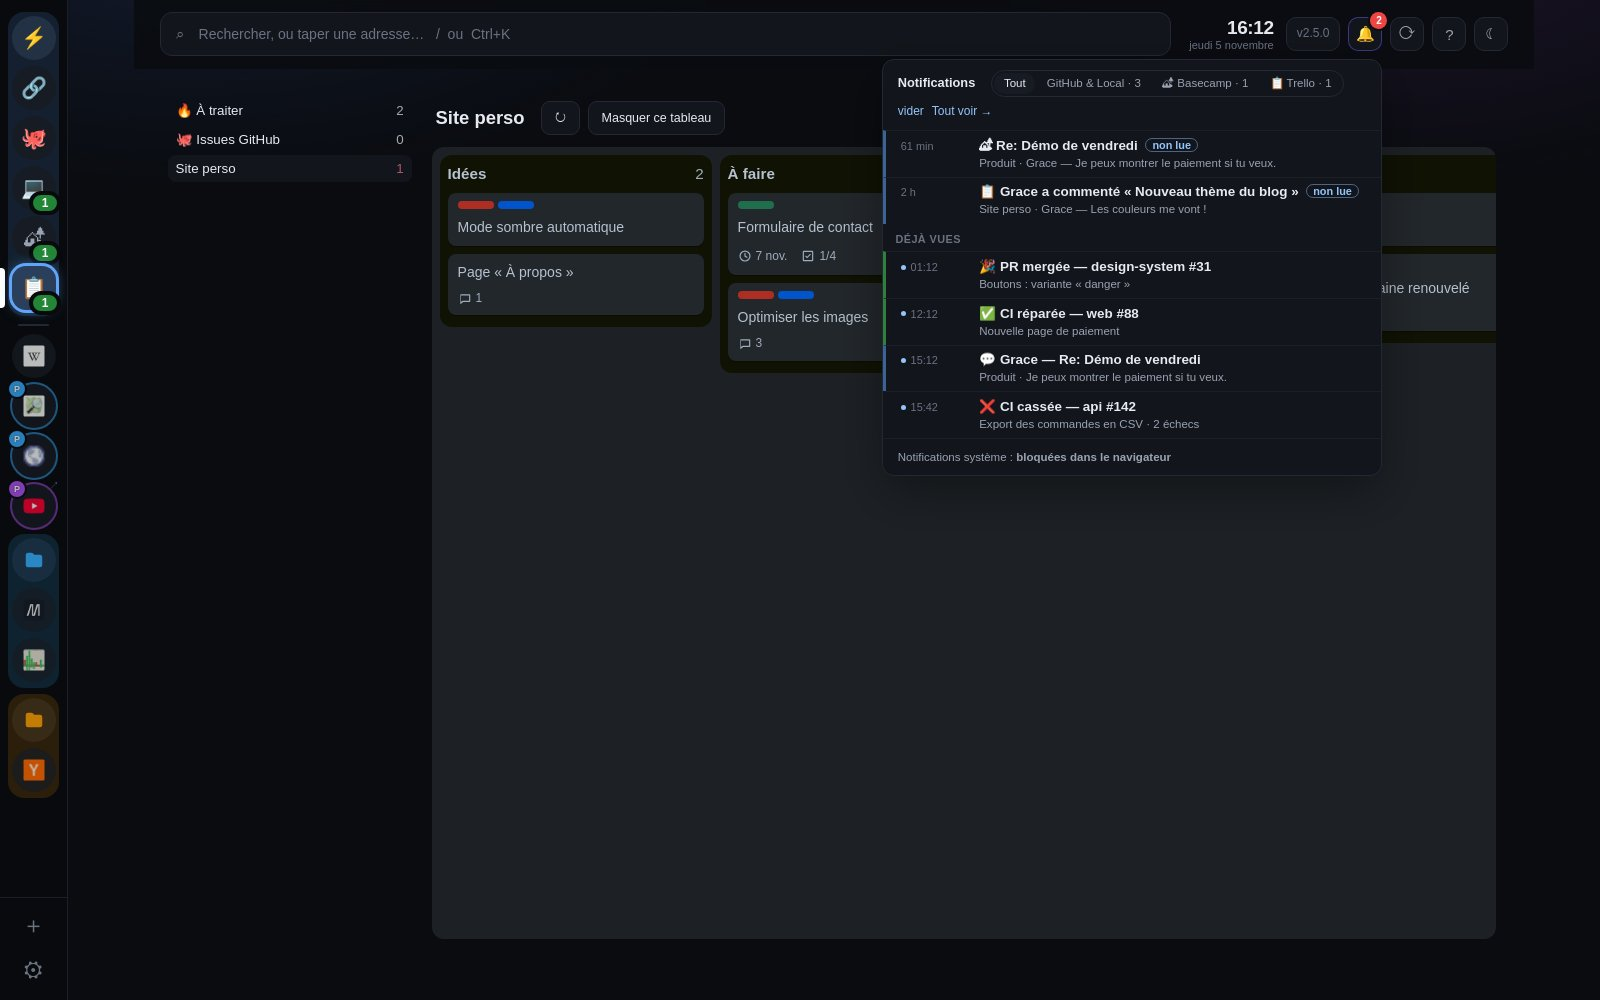
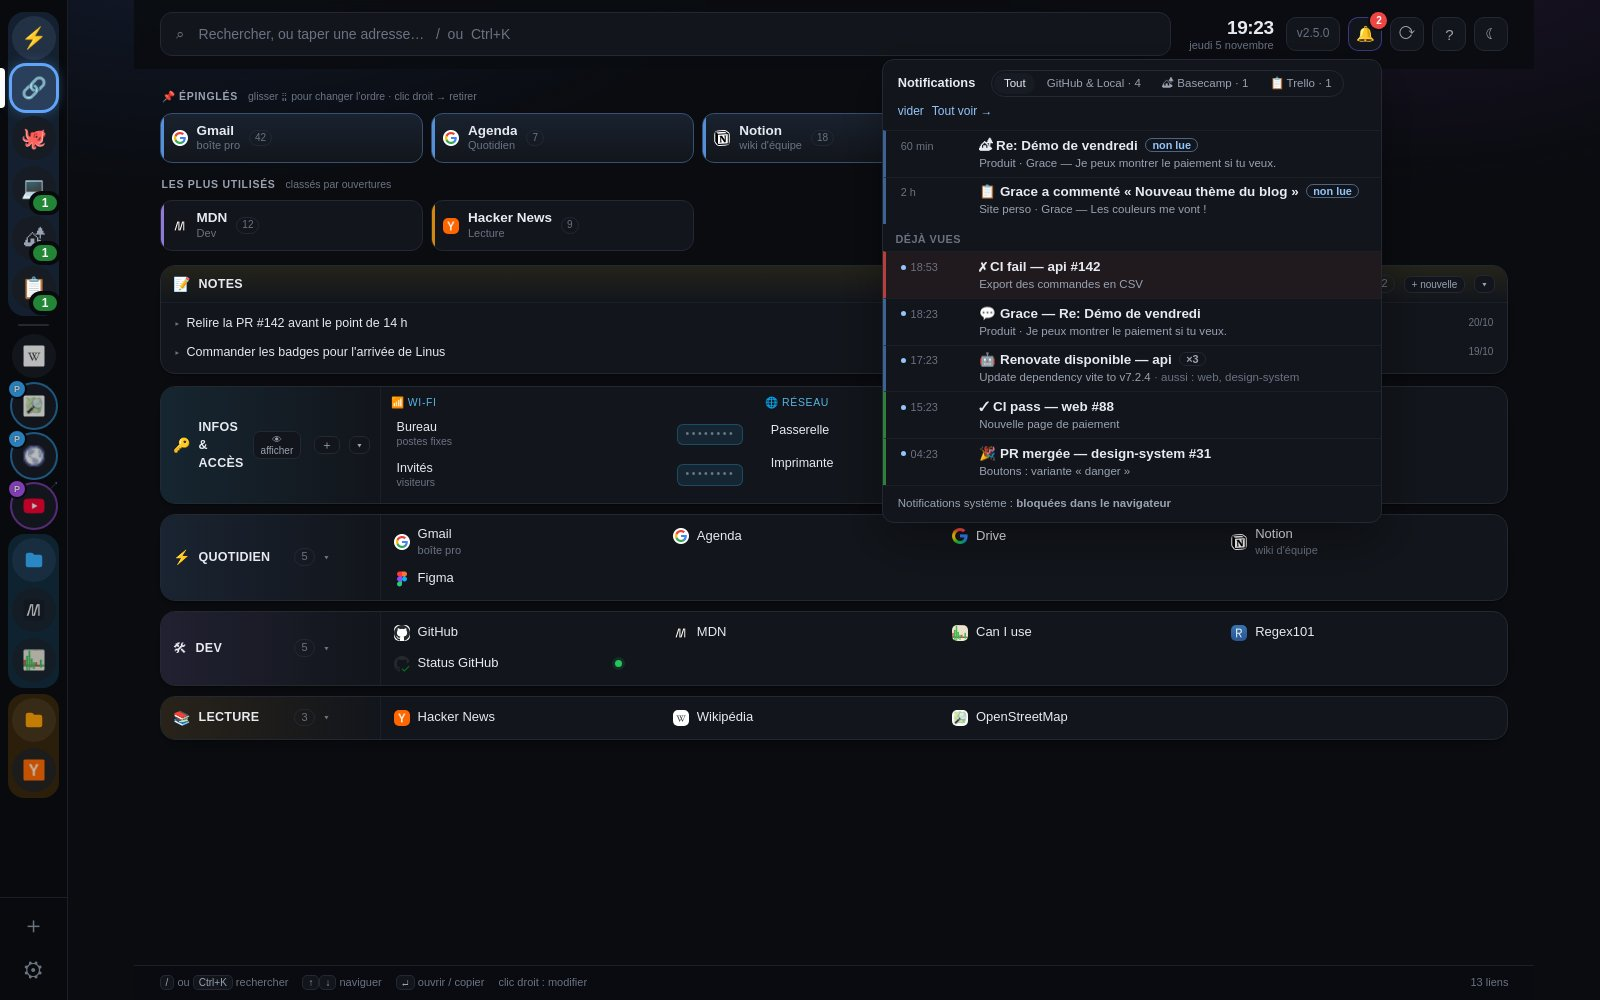
Doc 2.5.0 : Guide, confidentialité, architecture, captures
Le paragraphe Docker du Guide était coupé par celui des extensions, et
PRIVACY ne disait pas ce que voit une extension. Captures github (dates
encore en UTC) et cloche refaites ; la démo de la cloche utilise les vrais
types d'événements, un groupe Renovate et l'ordre du serveur.

diff --git a/GUIDE.md b/GUIDE.md
@@ -61,12 +61,12 @@ même sans aucun site : son **＋** ajoute le premier.
   dans la barre d'onglets du haut (un clic sur ⚡, puis l'onglet).
 - **Containers Docker** (développeurs) : *Réglages → Mes sites → Docker*, proposé quand Docker tourne sur la machine, ajoute un dossier 🐳 dans la barre, avec une ligne par projet Compose
   ou container, reconnaissable à ses deux lettres et sa couleur. Un clic ouvre son premier port, un clic droit ses autres ports.
+  Le dossier se glisse où tu veux. Ceux qui sont éteints restent visibles en plus fade, sans clic. Tu choisis lesquels ; homedash lit la liste et ne change rien.
 - **Extensions de navigateur** (appli de bureau) : *Réglages → Mes sites → Extensions* → *Ajouter un dossier*, celui
   d'une extension non empaquetée (avec `manifest.json`). Elle tourne dans tous tes sites, tous comptes compris, sur
   cette machine seulement ; *↻ Recharger les sites ouverts* pour l'appliquer tout de suite. Ce qu'elle fait dans la
   page marche ; son icône, sa fenêtre (popup), son clic droit et `storage.sync` non (elle doit se rabattre sur
   `storage.local`). N'ajoute que des extensions que tu connais : elles voient tout ce que tes sites affichent.
-  Le dossier se glisse où tu veux. Ceux qui sont éteints restent visibles en plus fade, sans clic. Tu choisis lesquels ; homedash lit la liste et ne change rien.
 - **Tout le reste** : clic droit sur l'icône du site (copier le lien, dossier, compte, notifications, son, veille,
   modifier, supprimer).
 - **Partager un onglet** : le bouton partager en haut (ou clic droit → *Copier le lien*) copie l'adresse
@@ -149,12 +149,13 @@ homedash dans sa propre fenêtre, sur Mac et Windows. Elle n'ouvre aucun port ; 
 | `⇧⌘R` | `Ctrl+Maj+R` | Recharger tout homedash (tous les sites se rechargent) |
 | `⌘[` `⌘]` | `Ctrl+[` `Ctrl+]` | Page précédente / suivante (aussi les boutons de la souris) |
 | `Ctrl+Tab` | `Ctrl+Tab` | Revenir au site d'avant. `Ctrl` gardé appuyé : tes sites s'affichent en tuiles. `Tab` ou `Maj+Tab` pour choisir, relâcher `Ctrl` ou cliquer pour ouvrir, `1` à `9` pour ouvrir directement, `Échap` pour rester (⌘Tab et Alt+Tab restent ceux du système) |
+| `⌘⇧F` | `Ctrl+Maj+F` | Mode focus : le site affiché prend toute la fenêtre, même quand tu tapes dans le site ; les barres reviennent au bord. Encore une fois pour en sortir |
 | `⌘,` | `Ctrl+,` | Réglages |
-| `⌘Q` | Clic droit sur l'icône près de l'horloge → *Quitter* | Quitter. Fermer la fenêtre la cache seulement : pastilles et cloche continuent |
+| `⌘Q` | Clic droit sur l'icône près de l'horloge → *Quitter* | Quitter. Fermer la fenêtre la cache seulement : compteurs et cloche continuent |
 
 #### Bon à savoir
 
-- **Mémoire** : au démarrage, seuls les mails et messageries sont chargés, l'un après l'autre (leurs pastilles arrivent dans les premières secondes) ; les autres au premier clic.
+- **Mémoire** : au démarrage, seuls les mails et messageries sont chargés, l'un après l'autre (leurs compteurs arrivent dans les premières secondes) ; les autres au premier clic.
   *Réglages → Mes sites* affiche ce que consomme chaque site : 💤 *Libérer* le décharge tout de suite, jusqu'au
   prochain clic. Clic droit → *Mettre en veille si inutilisé* libère un onglet après 5 min sans y aller.
 - **Son** : 🔊 sur l'icône d'un onglet qui joue du son ; un clic le coupe.
@@ -349,7 +350,7 @@ garde tes modifications en brouillon, retrouvées au retour.
 | 💻 Local | Les dossiers où chercher tes clones |
 | 🏕 Basecamp | La connexion, les repos où créer les issues, les stats en arrière-plan |
 | 📋 Trello | La clé d'API et le jeton, les repos où créer les issues |
-| 🗂 Mes sites | Tes sites (une ligne chacun, ▾ pour tous ses réglages), dossiers, comptes ; repliés : où s'ouvrent les liens, veille, Docker |
+| 🗂 Mes sites | Tes sites (une ligne chacun, ▾ pour tous ses réglages), dossiers, comptes ; repliés : où s'ouvrent les liens, onglets temporaires gardés, veille, Docker, extensions (appli) |
 | 🧭 Barres et onglets | Barre de gauche ou onglets en haut, disposition, style et taille des onglets, masquage automatique, place de Raccourcis/GitHub/Local (⚡) |
 | 🎛 Affichage | Ce qui s'affiche (horloge, tuiles…), largeur de la page ; repliés : densité de Raccourcis, colonnes GitHub / Local, tuiles, test des voyants |
 | 🔔 Notifications | Ce qui compte dans la cloche (par type : compter, discret, masqué), notifications du bureau, compteur sur l'icône de l'appli |
@@ -389,7 +390,7 @@ homedash sauvegarde tes liens, réglages et notes tout seul : chaque jour, et av
 | http://localhost:7777 ne montre rien dans le navigateur | Normal : coche *Réglages → Fonctionnalités → Accès depuis le navigateur*, l'appli ouverte |
 | Accès navigateur : « le port 7777 est déjà pris » | Un autre programme l'utilise (un ancien homedash ?) : ferme-le |
 | « Tes réglages ne se lisent plus » | Le fichier a été abîmé (souvent une modification à la main) : *Revenir à la dernière sauvegarde* |
-| Pas d'onglet GitHub | Aucun jeton : *Réglages → GitHub → Connexion*, le pas-à-pas « Comment créer un jeton » y est ouvert |
+| Pas d'onglet GitHub | Aucun jeton : *Réglages → GitHub → Compte*, le pas-à-pas « Comment créer un jeton » y est ouvert |
 | Un repo n'est pas proposé | Repo d'un collègue où tu es collaborateur : onglet *Partagés avec toi*. Sinon le jeton n'y a pas accès : ajoute-le dans *Repository access* du jeton, sur GitHub |
 | Onglet Local vide | Ajoute un dossier dans *Réglages → Local* (dossier personnel, ou 💽 ailleurs sur le disque) |
 | Un compteur ne bouge pas | L'onglet est peut-être en veille : clique dessus pour le recharger |

diff --git a/ARCHITECTURE.md b/ARCHITECTURE.md
@@ -41,13 +41,17 @@ src/
   lib/                    appels API et polling (ghboard, local, events, admin…), markdown (aide),
                           tabCount (compteurs de Mes sites), railOrder (place des dossiers), siteSwitch (Ctrl+Tab),
                           dockerTabs (lignes Docker), settingsIndex (ce que la recherche trouve dans Réglages),
-                          issueText (corps d'une issue liée), openTabs (↗ ouvrir les N), bcStats (📊 Stats)
+                          issueText (corps d'une issue liée), openTabs (↗ ouvrir les N), bcStats (📊 Stats),
+                          bellPrefs (ce qui compte dans la cloche), unreadSites (non-lus près de la cloche),
+                          ghDate (dates GitHub à l'heure locale)
   styles/                 index.css importe les feuilles dans l'ordre de la cascade
 desktop/                  l'appli (Electron)
   main.js                 fenêtre, webviews de Mes sites (guest-preload.js : souris, clavier, rien
                           d'exposé), badge du Dock / barre des tâches, icône près de l'horloge (Windows),
                           menus, connexion Basecamp interceptée, cookies de l'export complet,
-                          reprise des données Docker au premier lancement
+                          reprise des données Docker au premier lancement, extensions des sites
+                          (loadExtensions, dossiers dans desktop.json, IPC homedash:extensions), relais de
+                          ⌘⇧F depuis un site vers le mode focus (watchFocusKey)
   server.js               lance le serveur, intercepte http://localhost:7777 (sessions des sites :
                           GET /api/file seulement)
   updater.js              mise à jour par la dernière Release (sha512 vérifié, données sauvegardées, journal Windows)

diff --git a/PRIVACY.md b/PRIVACY.md
@@ -14,6 +14,7 @@ Dans le profil de l'appli : `~/Library/Application Support/homedash` (Mac), `%AP
 | Jetons GitHub, Basecamp (et Trello) | `data/secrets.json`, lisible par toi seul ; jamais envoyés à la page ni mis dans une sauvegarde simple |
 | Connexions de tes sites (cookies de Gmail, Chat…) | le profil de l'appli, comme dans un navigateur |
 | Sauvegardes automatiques | `data/backups/` |
+| Dossiers des extensions ajoutées (appli de bureau) | `desktop.json` du profil : les chemins de cette machine, jamais dans `data/` ni dans une sauvegarde |
 
 L'**export complet** (pour changer de machine) emporte tout, jetons compris, **chiffré** par le mot de
 passe que tu choisis. Désinstaller l'appli et supprimer ce dossier efface tout.
@@ -32,7 +33,10 @@ Uniquement vers les services que tu branches, avec tes propres accès :
 | Trello (`trello-members.s3.amazonaws.com`), si branché | Les photos de profil des membres de tes tableaux |
 | Tes sites et tes liens | Comme un navigateur : quand tu les ouvres, ou pour le voyant d'un lien *surveillé* |
 
-Rien d'autre : rien n'est envoyé à l'auteur de homedash, ni à personne en dehors de ce tableau.
+Rien d'autre : rien n'est envoyé à l'auteur de homedash, ni à personne en dehors de ce tableau. Seule
+exception, celle que tu ajoutes toi-même : une **extension de navigateur** (*Réglages → Mes sites → Extensions*,
+aucune par défaut) voit tout ce que tes sites affichent et peut contacter ce qu'elle veut, comme dans Chrome.
+N'ajoute que des extensions que tu connais.
 
 ## Ta machine
 

diff --git a/CLAUDE.md b/CLAUDE.md
@@ -330,7 +330,7 @@ Les versions publiées sont construites par `.github/workflows/release.yml` (Mac
 - `src/styles/index.css` : l'ordre des imports **est** la cascade.
 - Carte Repos : `repos.items[].in` (absent = `['github']`) dit dans quel onglet chaque repo apparaît.
   `normalizeConfig` met toujours `repos` dans les deux listes d'onglets et filtre par onglet ; une carte
-  sans repo pour cet onglet n'est pas affichée. Ce sont les pastilles GitHub / Accueil qui décident.
+  sans repo pour cet onglet n'est pas affichée. Ce sont les boutons GitHub / Accueil qui décident.
 - Tailles d'affichage : `SIZE_LIMITS` (config.ts) — 0 ou vide = défaut, sinon bornées ; une taille à 0 px
   cassait la grille. Les défauts = le preset 49" (`DISPLAY_PRESETS`) ; la page ne descend jamais sous
   1 400 px (`base.css`), sinon 60 % rendrait un portable illisible.
